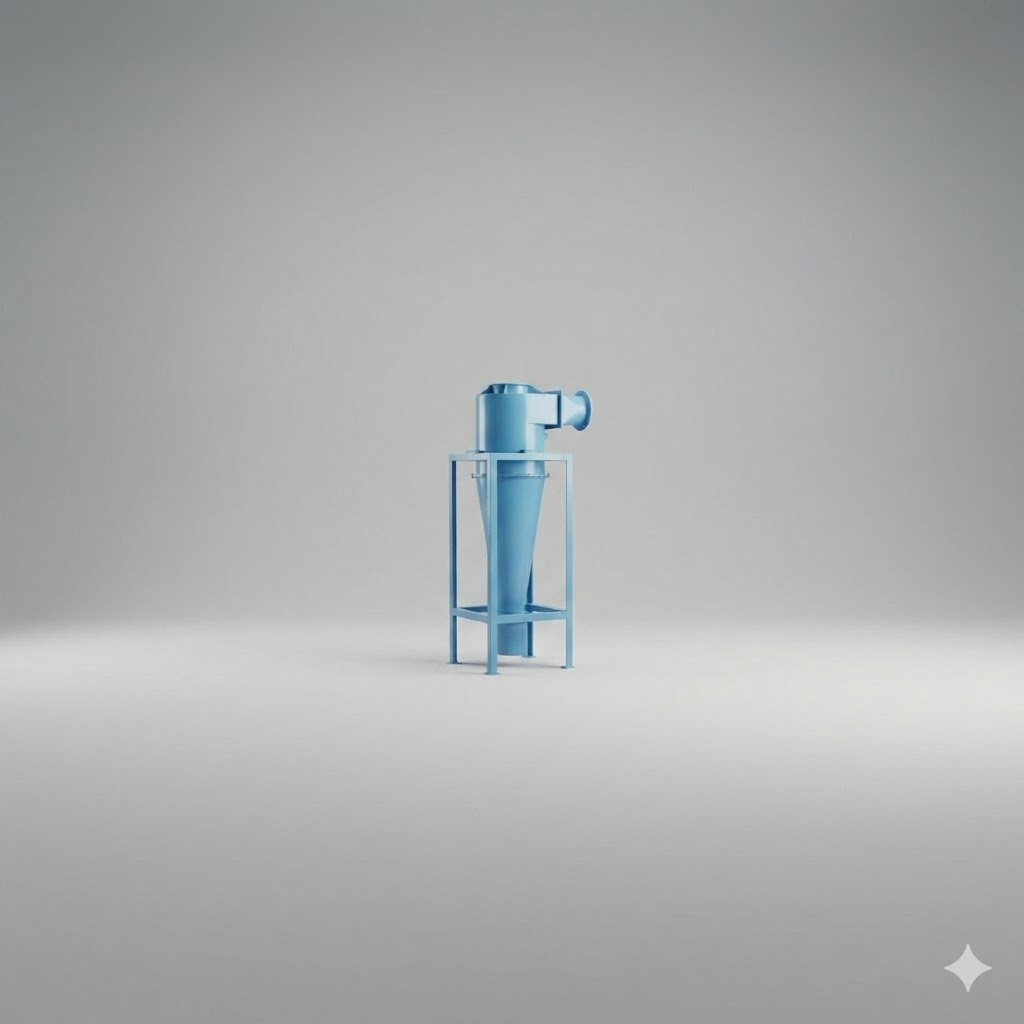
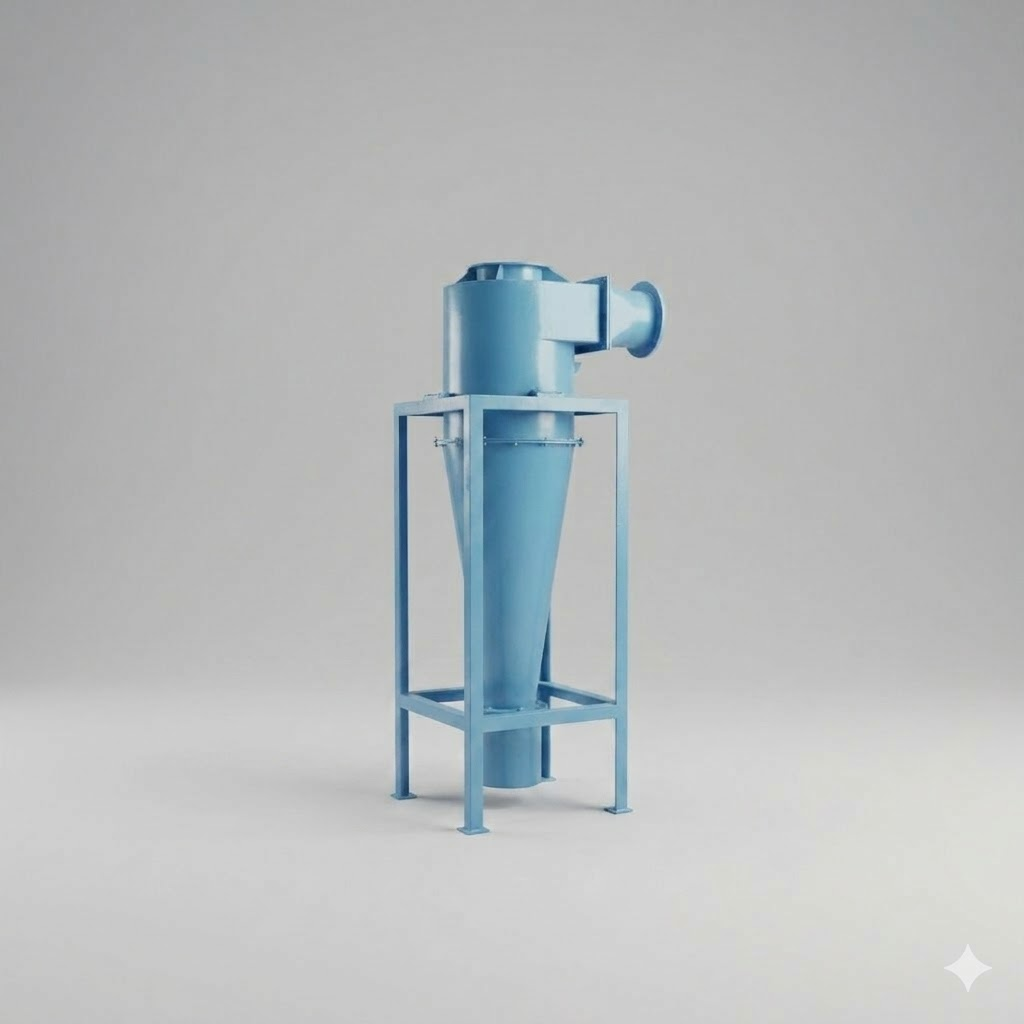
image and srilanka word changes

diff --git a/src/data/productHubs.ts b/src/data/productHubs.ts
@@ -30,7 +30,7 @@ const hubs: Record<string, ProductHubConfig> = {
     lede:
       "Laxmi Engineering Works engineers and supplies industrial oil burners for melting, heat treatment, and process heating — built for Indian fuels, plant duty cycles, and long field life.",
     paragraphs: [
-      "From our Goregaon East, Mumbai facility, we support projects across India, Sri Lanka, and international markets with application-fit burner sizing, combustion tuning guidance, and documentation for procurement and maintenance teams.",
+      "From our Goregaon East, Mumbai facility, we support projects across India, and international markets with application-fit burner sizing, combustion tuning guidance, and documentation for procurement and maintenance teams.",
       "Explore capacities, firing modes, and integration options on our full product catalog, or contact us with your furnace type, fuel, and required heat release for a configuration-led quotation.",
     ],
     primaryCta: { label: "View oil burners in catalog", to: "/products?open=oil-burner" },
@@ -57,7 +57,7 @@ const hubs: Record<string, ProductHubConfig> = {
       "High-performance air movement for combustion draft, ventilation, and process cooling — designed for continuous duty in foundries, furnaces, boilers, and manufacturing plants.",
     paragraphs: [
       "Our blower range includes centrifugal air blowers, induced draft (ID) blowers for flue gas paths, and tube axial fans for high-volume airflow — with MS, SS, and aluminium impeller options and direct or belt drive layouts.",
-      "Based in Mumbai, we routinely support customers across India, Sri Lanka, and international markets with application-specific selection, fabrication discipline, and after-sales spares readiness.",
+      "Based in Mumbai, we routinely support customers across India, international markets with application-specific selection, fabrication discipline, and after-sales spares readiness.",
     ],
     primaryCta: { label: "Browse air blowers", to: "/products?open=air-blowers" },
     secondaryCtas: [

diff --git a/src/pages/Index.tsx b/src/pages/Index.tsx
@@ -15,7 +15,7 @@ import heroVideo from "@/assets/hero-home-video.mp4.asset.json";
 import imgOilBurners from "@/assets/product-oil-burners.png";
 import imgBlowers from "@/assets/product-blowers.jpg";
 import imgBlowers01 from "@/assets/air-blower-01.jpg";
-import imgFurnaces from "@/assets/oil-1-square.jpg";
+import imgFurnaces from "@/assets/pallet-1.jpg";
 import imgOilHeating from "@/assets/simple-3-square.jpg";
 import imgOilLineHeater from "@/assets/product-oil-line-heater.jpg";
 import imgOilFilter from "@/assets/product-oil-filter.jpg";
@@ -470,7 +470,7 @@ const Index = () => {
             ))}
           </div>
           <p className="mt-8 text-center text-muted-foreground text-sm">
-            Serving <strong className="text-foreground">India, Sri Lanka, and Global Markets</strong> — also see our{" "}
+            Serving <strong className="text-foreground">India, and Global Markets</strong> — also see our{" "}
             <Link to="/products" className="text-primary hover:underline">
               full product catalog
             </Link>

diff --git a/src/pages/Products.tsx b/src/pages/Products.tsx
@@ -109,7 +109,7 @@ export const products: Product[] = [
   },
   // 3. Furnace / Pallet Furnace
   {
-    image: imgOilFurnace1,
+    image: imgPallet1,
     name: "Furnace / Pallet Furnace",
     serial: "LX-FR-2024",
     icon: Factory,